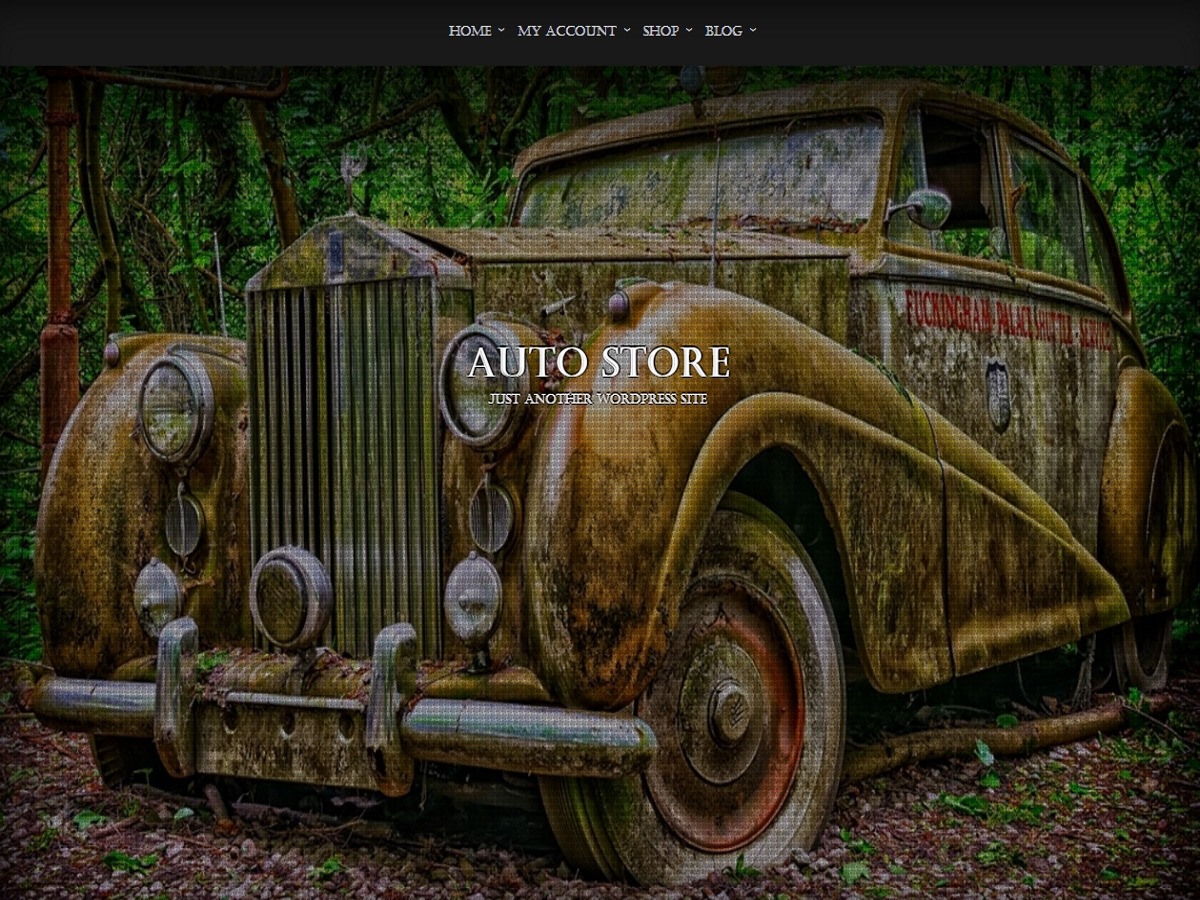
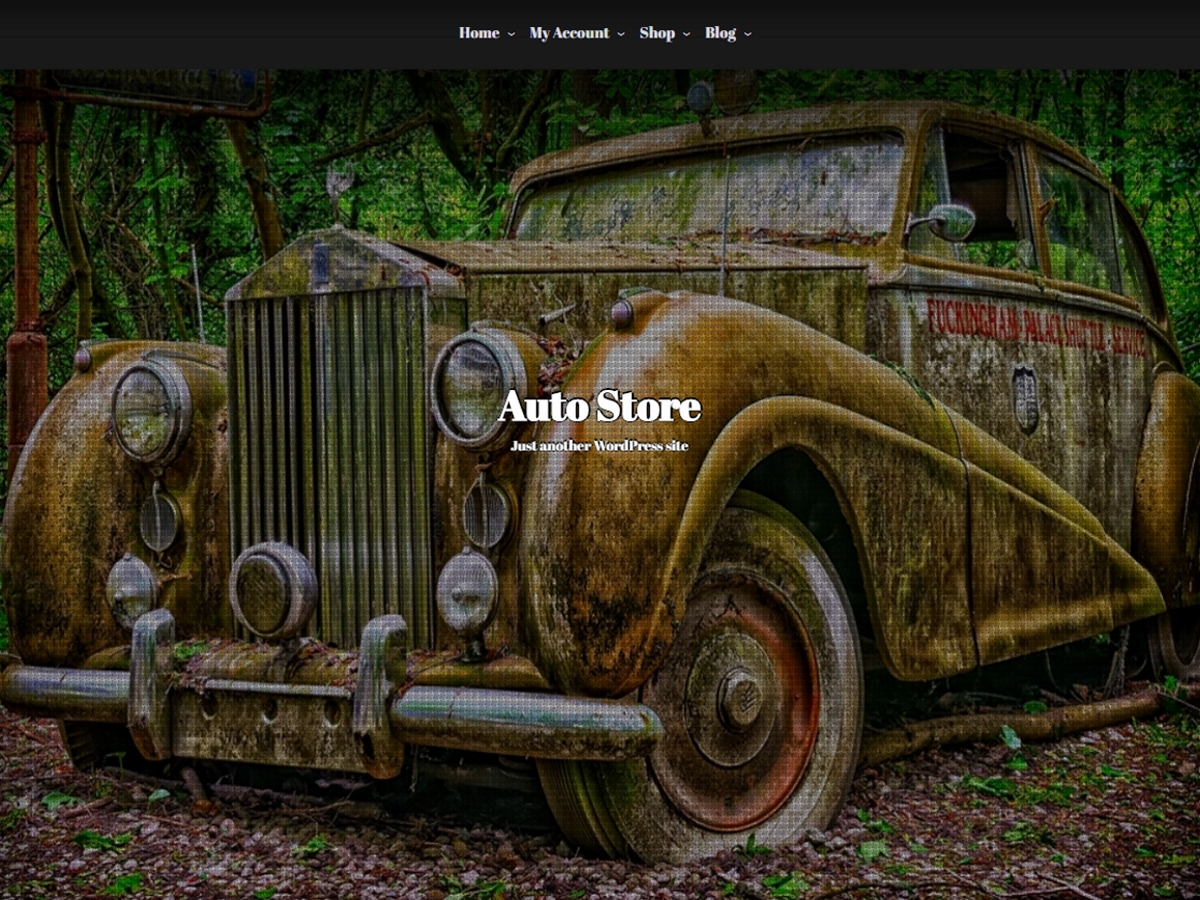
New version of Auto Store - 1.1.8

diff --git a/style.css b/style.css
@@ -4,7 +4,7 @@ Author: Tsvetomir Tsvetanov
 Author URI: https://seosthemes.com/
 Theme URI: https://seosthemes.com/auto-store
 Description: Auto Store is clear, easy to customize WP template. Auto Store is a modern multi-purpose HTML5 theme with a responsive 2 column layout. The theme is excellent for a image gallery, photography, blog, eatery, newspaper, images, photos, publishing, news, blog, business, portfolio or other editorial websites. To learn more about the theme please go to the theme uri and read the documentation. 
-Version: 1.1.7
+Version: 1.1.8
 License: GNU General Public License version 3.0
 License URI: http://www.gnu.org/licenses/gpl-3.0.html
 Text Domain: auto-store
@@ -296,7 +296,7 @@ h3,
 h4,
 h5,
 h6 {
-	font-family: 'Castellar', sans-serif;
+	font-family: 'Abril Fatface', sans-serif;
     font-weight: 100;
 	padding: 10px 0 10px 0;
 }
@@ -614,7 +614,7 @@ blockquote:after,
 .sw-about-title {
 	font-size: 5vw;
 	font-weight: 100;
-    font-family: 'Castellar', sans-serif;	
+    font-family: 'Abril Fatface', sans-serif;	
 	padding: 60px 0 60px 0;
 }
 
@@ -724,7 +724,7 @@ header .site-title {
 	margin: 3px 0 0 0;
 	z-index: 1003;
 	display: inline-block;
-	font-family: 'Castellar', sans-serif;
+	font-family: 'Abril Fatface', sans-serif;
     font-size: 3em;
 	word-wrap: break-word;
 	font-weight: 100;
@@ -764,7 +764,7 @@ header .site-home {
 
 
 header .site-home .home-title {
-	font-family: 'Castellar', sans-serif;
+	font-family: 'Abril Fatface', sans-serif;
 	font-size: 50px;
 	margin: 0 auto;
 	word-wrap: break-word;
@@ -788,7 +788,7 @@ header .site-home .home-title a:hover {
 header .site-home .home-description {
 	text-align: center;
 	color: #fff;
- 	font-family: 'Castellar', sans-serif;
+ 	font-family: 'Abril Fatface', sans-serif;
 	font-size: 18px;
 	margin: 0;
 	padding: 10px 0 10px 5px;
@@ -810,7 +810,7 @@ header .site-home .home-description {
 
 .header-img {  
 	width: 100%;
-	height: 800px;
+	height: 250px;
 	position: relative;
 	display: block;
 	z-index: 1;
@@ -1127,7 +1127,7 @@ body .ig-home main {
 a {
 	color: #222;
 	text-decoration: none;
-    font-family: 'Castellar', sans-serif;
+    font-family: 'Abril Fatface', sans-serif;
 	font-weight: 100;	
 }
 
@@ -1148,7 +1148,7 @@ a:active {
 .postpagination {
 	margin-top: 10px;
 	width: 100%;
-	font-family: 'Castellar', serif;
+	font-family: 'Abril Fatface', serif;
 }
 
 .pagination a {
@@ -1263,7 +1263,7 @@ a:active {
 	padding: 12px;
 	color: #DEDEE2;
 	text-decoration: none;
-		
+	font-size: 14px;
 }
 
 .main-navigation ul ul li {
@@ -1610,7 +1610,7 @@ a:active {
 }
 .news-widget a {
 	font-size: 12px;
-	font-family: 'Castellar', sans-serif;
+	font-family: 'Abril Fatface', sans-serif;
 }
 
 .widget_search {
@@ -1706,7 +1706,7 @@ article header h2 {
 	margin: 0;
 	font-weight: 100;
 	color: #333333;
-	font-family: 'Castellar', sans-serif;
+	font-family: 'Abril Fatface', sans-serif;
 }
 
 article header h1  {
@@ -2173,33 +2173,22 @@ aside section, article {
 
 #totop {
 	position: fixed;
-	right: 30px;
+	right: 10px;
 	z-index: 999999999999;
-	bottom: -70px;
+	bottom: -60px;
 	display: none;
 	outline: none;
-	background: #C6631B;
 	width: 135px;
 	height: 135px;
 	text-align: center;
 	color: #FFFFFF;
 	padding: 5px;
-	font-size: 19px;
-	-webkit-transition: all 0.1s linear 0s;
-	-moz-transition: all 0.1s linear 0s;
-	-o-transition: all 0.1s linear 0s;
-	transition: all 0.1s linear 0s;
-	-webkit-transform: rotate(-45deg);
-    -moz-transform: rotate(-45deg);
-    -ms-transform: rotate(-45deg);
-    -o-transform: rotate(-45deg);
-    filter: progid:DXImageTransform.Microsoft.BasicImage(rotation=3);	
 }
 
 
 	
 #totop:hover {
-	background: #555;	
+	opacity: 0.7;
 	display: block;		
 }
 	
@@ -2247,7 +2236,7 @@ header .site-title, .tags-links a, .tags-links,
 h1, h2, h3, h4, h5, h6,
 nav ul li a,
 header .site-description {
-	font-family: 'Castellar', sans-serif;
+	font-family: 'Abril Fatface', sans-serif;
 	font-weight: 100;
 }
 

diff --git a/inc/theme-functions.php b/inc/theme-functions.php
@@ -10,7 +10,7 @@ if ( ! function_exists( 'auto_store_setup' ) ) :
 
 function auto_store_setup() {
 
-	load_theme_textdomain( 'auto-store', IMAGE_GALLERY_THEME . '/languages' );
+	load_theme_textdomain( 'auto-store', AUTO_STORE_THEME . '/languages' );
 
 	// Add default posts and comments RSS feed links to head.
 	add_theme_support( 'automatic-feed-links' );
@@ -90,21 +90,21 @@ add_action( 'widgets_init', 'auto_store_widgets_init' );
  
 function auto_store_scripts() {
 
-		wp_enqueue_style( 'image-gallery-style', get_stylesheet_uri());
-		wp_enqueue_style( 'animate', IMAGE_GALLERY_THEME_URI . '/framework/css/animate.css');
-		wp_enqueue_style( 'animate-image', IMAGE_GALLERY_THEME_URI . '/css/style.css');
-		wp_enqueue_style( 'font-awesome', IMAGE_GALLERY_THEME_URI . '/css/font-awesome.css', array(), '4.7.0'  );
-		wp_enqueue_style( 'genericons', IMAGE_GALLERY_THEME_URI . '/framework/genericons/genericons.css', array(), '3.4.1' );	
-		wp_enqueue_style( 'image-gallery-woocommerce', IMAGE_GALLERY_THEME_URI . '/inc/woocommerce/woo-css.css' );
-		wp_enqueue_style( 'image-gallery-font', '//fonts.googleapis.com/css?family=Fjalla+One:400,400i,500,500i,600,600i,700,700i,800,800i,900,900i' );
+		wp_enqueue_style( 'auto-store-style', get_stylesheet_uri());
+		wp_enqueue_style( 'animate', AUTO_STORE_THEME_URI . '/framework/css/animate.css');
+		wp_enqueue_style( 'animate-image', AUTO_STORE_THEME_URI . '/css/style.css');
+		wp_enqueue_style( 'font-awesome', AUTO_STORE_THEME_URI . '/css/font-awesome.css', array(), '4.7.0'  );
+		wp_enqueue_style( 'genericons', AUTO_STORE_THEME_URI . '/framework/genericons/genericons.css', array(), '3.4.1' );	
+		wp_enqueue_style( 'auto-store-woocommerce', AUTO_STORE_THEME_URI . '/inc/woocommerce/woo-css.css' );
+		wp_enqueue_style( 'auto-store-font', '//fonts.googleapis.com/css?family=Abril+Fatface:400,400i,500,500i,600,600i,700,700i,800,800i,900,900i' );
 
-		wp_enqueue_script( 'image-gallery-navigation', IMAGE_GALLERY_THEME_URI . '/framework/js/navigation.js', array(), '20120206', true );
-		wp_enqueue_script( 'image-gallery-skip-link-focus-fix', IMAGE_GALLERY_THEME_URI . '/framework/js/skip-link-focus-fix.js', array(), '20130115', true );
-		wp_enqueue_script( 'aniview', IMAGE_GALLERY_THEME_URI . '/framework/js/jquery.aniview.js', array('jquery'), true );
-		wp_enqueue_script( 'image-gallery-back-to-top', IMAGE_GALLERY_THEME_URI . '/framework/js/back-to-top.js', array('jquery'), true );
+		wp_enqueue_script( 'auto-store-navigation', AUTO_STORE_THEME_URI . '/framework/js/navigation.js', array(), '20120206', true );
+		wp_enqueue_script( 'auto-store-skip-link-focus-fix', AUTO_STORE_THEME_URI . '/framework/js/skip-link-focus-fix.js', array(), '20130115', true );
+		wp_enqueue_script( 'aniview', AUTO_STORE_THEME_URI . '/framework/js/jquery.aniview.js', array('jquery'), true );
+		wp_enqueue_script( 'auto-store-back-to-top', AUTO_STORE_THEME_URI . '/framework/js/back-to-top.js', array('jquery'), true );
 
 		if ( is_singular() && wp_attachment_is_image() ) {
-			wp_enqueue_script( 'image-gallery-keyboard-image-navigation', IMAGE_GALLERY_THEME_URI . '/framework/js/keyboard-image-navigation.js', array( 'jquery' ), '20151104' );
+			wp_enqueue_script( 'auto-store-keyboard-image-navigation', AUTO_STORE_THEME_URI . '/framework/js/keyboard-image-navigation.js', array( 'jquery' ), '20151104' );
 		}
 		
 		if ( is_singular() && comments_open() && get_option( 'thread_comments' ) ) {
@@ -117,7 +117,7 @@ add_action( 'wp_enqueue_scripts', 'auto_store_scripts' );
 
 function auto_store_admin_scripts() {
 	
-		wp_enqueue_style( 'seos-admin', IMAGE_GALLERY_THEME_URI . '/inc/css/admin.css');
+		wp_enqueue_style( 'seos-admin', AUTO_STORE_THEME_URI . '/inc/css/admin.css');
 }		
 add_action( 'admin_enqueue_scripts', 'auto_store_admin_scripts' );
 
@@ -126,13 +126,13 @@ add_action( 'admin_enqueue_scripts', 'auto_store_admin_scripts' );
 * Includes.
 *******************************/
 
-	require IMAGE_GALLERY_THEME . '/inc/template-tags.php';
-	require IMAGE_GALLERY_THEME . '/inc/extras.php';
-	require IMAGE_GALLERY_THEME . '/inc/customizer.php';
-	require IMAGE_GALLERY_THEME . '/inc/jetpack.php';
-	require IMAGE_GALLERY_THEME . '/inc/custom-header.php';
-	require IMAGE_GALLERY_THEME . '/inc/woocommerce/woo-functions.php';
-	require IMAGE_GALLERY_THEME . '/inc/social.php';
+	require AUTO_STORE_THEME . '/inc/template-tags.php';
+	require AUTO_STORE_THEME . '/inc/extras.php';
+	require AUTO_STORE_THEME . '/inc/customizer.php';
+	require AUTO_STORE_THEME . '/inc/jetpack.php';
+	require AUTO_STORE_THEME . '/inc/custom-header.php';
+	require AUTO_STORE_THEME . '/inc/woocommerce/woo-functions.php';
+	require AUTO_STORE_THEME . '/inc/social.php';
 	
 /*********************************************************************************************************
 * Excerpt Read More

diff --git a/inc/init.php b/inc/init.php
@@ -7,12 +7,12 @@ if( ! defined( 'ABSPATH' ) ) exit;
 ***************************/
 
 /* Set path constants */
-define('IMAGE_GALLERY_THEME', get_template_directory());
-define('IMAGE_GALLERY_THEME_SCRIPTS', get_template_directory() . '/framework/js');
+define('AUTO_STORE_THEME', get_template_directory());
+define('AUTO_STORE_THEME_SCRIPTS', get_template_directory() . '/framework/js');
 
 /* Set URI path constants */
-define('IMAGE_GALLERY_THEME_URI', get_template_directory_uri());
-define('IMAGE_GALLERY_THEME_SCRIPTS_URI', get_template_directory_uri() . '/framework/js');
+define('AUTO_STORE_THEME_URI', get_template_directory_uri());
+define('AUTO_STORE_THEME_SCRIPTS_URI', get_template_directory_uri() . '/framework/js');
 
 
 

diff --git a/footer.php b/footer.php
@@ -20,7 +20,7 @@
 		</div><!-- .site-info -->
 		
 	</footer><!-- #colophon -->
-	<a id="totop" href="#"><div><?php esc_html_e('To Top', 'auto-store'); ?></div></a>	
+	<a id="totop" href="#"><div><img src="<?php echo esc_url(AUTO_STORE_THEME_URI.'/framework/images/top.png'); ?>" /></div></a>	
 </div><!-- #page -->
 
 

diff --git a/inc/customizer.php b/inc/customizer.php
@@ -1,9 +1,5 @@
 <?php
-/**
- * All Purpose Theme Customizer
- *
- * @package All Purpose
- */
+/* Theme Customizer */
 
 /**
  * Add postMessage support for site title and description for the Theme Customizer.
